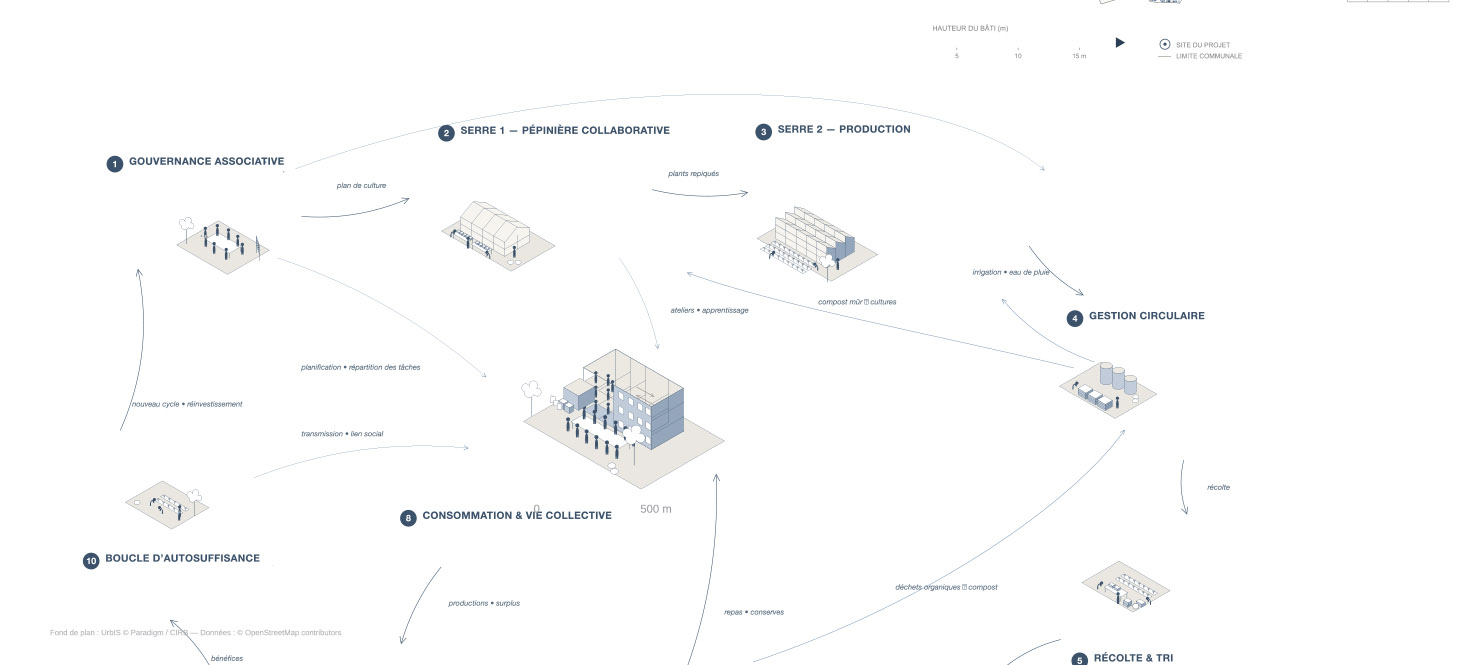
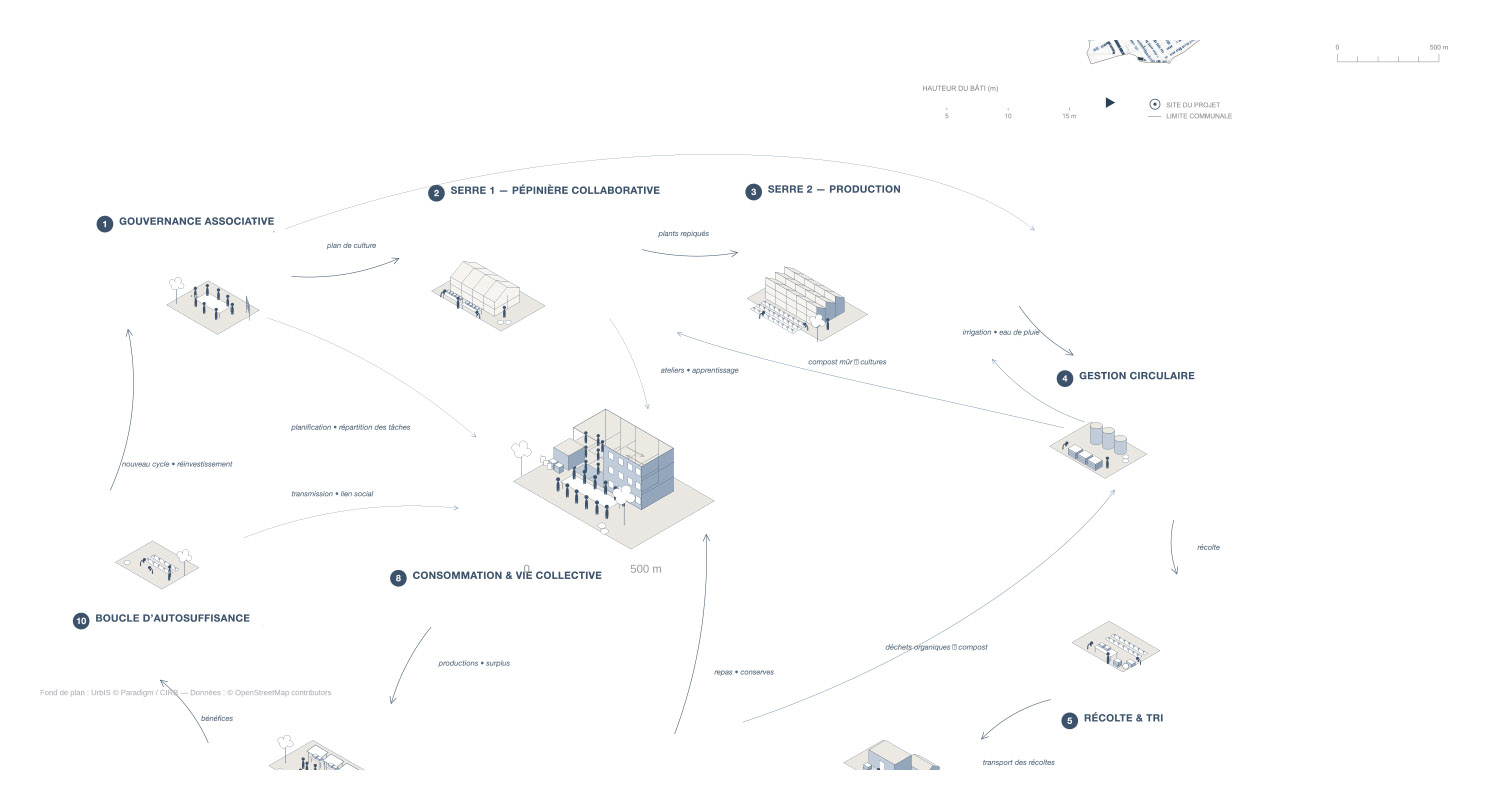
Images recadrées au contenu sans cartouches, fond blanc de la page projet
Recadrage large + rognage automatique aux blancs et marge régulière ;
élévation et herbier repris aux bornes exactes (étiquette et noms
d'espèces entiers). Le fond papier passe au blanc pour se fondre
avec les planches.

diff --git a/projets/habiter-produire-partager.html b/projets/habiter-produire-partager.html
@@ -9,7 +9,7 @@
 <style>
   :root{
     --bg:#050505; --ink:#ECE9E2; --muted:#8f8d86;
-    --paper:#F5F3EE; --paper-ink:#141414; --line:#DDD9CF;
+    --paper:#FFFFFF; --paper-ink:#141414; --line:#E5E5E5;
     --sans:'Helvetica Neue',Helvetica,Arial,sans-serif;
   }
   *{margin:0;padding:0;box-sizing:border-box}
